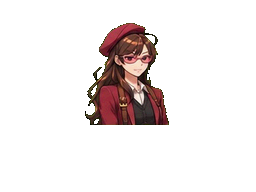
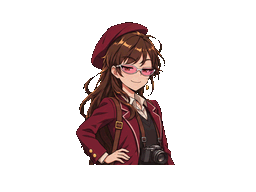
Chayo con hojas nuevas en pares exactos (8 emociones); se retiran las caras antiguas
Claude-Session: https://claude.ai/code/session_01Xb94a44mJyTYV8GKKMfxw2

Changed region(s): [[0.2812, 0.0938, 0.6875, 0.875]]

diff --git a/js/assets.js b/js/assets.js
@@ -1,5 +1,5 @@
 /* Rutas de las imágenes del juego. Para cambiar un sprite, reemplaza el PNG. */
-const ART={chayo:{angry:"assets/personajes/chayo/angry.png",angryTalk:"assets/personajes/chayo/angryTalk.png",annoyed:"assets/personajes/chayo/annoyed.png",annoyedTalk:"assets/personajes/chayo/annoyedTalk.png",base:"assets/personajes/chayo/base.png",blush:"assets/personajes/chayo/blush.png",blushTalk:"assets/personajes/chayo/blushTalk.png",camera:"assets/personajes/chayo/camera.png",cameraTalk:"assets/personajes/chayo/cameraTalk.png",cry:"assets/personajes/chayo/cry.png",cryTalk:"assets/personajes/chayo/cryTalk.png",down:"assets/personajes/chayo/down.png",downTalk:"assets/personajes/chayo/downTalk.png",embarrassed:"assets/personajes/chayo/embarrassed.png",embarrassedTalk:"assets/personajes/chayo/embarrassedTalk.png",excited:"assets/personajes/chayo/excited.png",excitedTalk:"assets/personajes/chayo/excitedTalk.png",face:"assets/personajes/chayo/face.png",facepalm:"assets/personajes/chayo/facepalm.png",facepalmTalk:"assets/personajes/chayo/facepalmTalk.png",giggle:"assets/personajes/chayo/giggle.png",giggleTalk:"assets/personajes/chayo/giggleTalk.png",glasses:"assets/personajes/chayo/glasses.png",glassesTalk:"assets/personajes/chayo/glassesTalk.png",grin:"assets/personajes/chayo/grin.png",grinTalk:"assets/personajes/chayo/grinTalk.png",happy:"assets/personajes/chayo/happy.png",happyTalk:"assets/personajes/chayo/happyTalk.png",laugh:"assets/personajes/chayo/laugh.png",laughTalk:"assets/personajes/chayo/laughTalk.png",panic:"assets/personajes/chayo/panic.png",panicTalk:"assets/personajes/chayo/panicTalk.png",photo:"assets/personajes/chayo/photo.png",photoTalk:"assets/personajes/chayo/photoTalk.png",point:"assets/personajes/chayo/point.png",pointTalk:"assets/personajes/chayo/pointTalk.png",sad:"assets/personajes/chayo/sad.png",sadTalk:"assets/personajes/chayo/sadTalk.png",serious:"assets/personajes/chayo/serious.png",seriousTalk:"assets/personajes/chayo/seriousTalk.png",shock:"assets/personajes/chayo/shock.png",shockTalk:"assets/personajes/chayo/shockTalk.png",smile:"assets/personajes/chayo/smile.png",smileTalk:"assets/personajes/chayo/smileTalk.png",smug:"assets/personajes/chayo/smug.png",smugTalk:"assets/personajes/chayo/smugTalk.png",surprise:"assets/personajes/chayo/surprise.png",surpriseTalk:"assets/personajes/chayo/surpriseTalk.png",sweat:"assets/personajes/chayo/sweat.png",sweatTalk:"assets/personajes/chayo/sweatTalk.png",talk:"assets/personajes/chayo/talk.png",think:"assets/personajes/chayo/think.png",think2:"assets/personajes/chayo/think2.png",think2Talk:"assets/personajes/chayo/think2Talk.png",thinkTalk:"assets/personajes/chayo/thinkTalk.png",wink:"assets/personajes/chayo/wink.png",winkTalk:"assets/personajes/chayo/winkTalk.png"},
+const ART={chayo:{annoyed:"assets/personajes/chayo/annoyed.png",annoyedTalk:"assets/personajes/chayo/annoyedTalk.png",base:"assets/personajes/chayo/base.png",face:"assets/personajes/chayo/face.png",happy:"assets/personajes/chayo/happy.png",happyTalk:"assets/personajes/chayo/happyTalk.png",point:"assets/personajes/chayo/point.png",pointTalk:"assets/personajes/chayo/pointTalk.png",smug:"assets/personajes/chayo/smug.png",smugTalk:"assets/personajes/chayo/smugTalk.png",surprise:"assets/personajes/chayo/surprise.png",surpriseTalk:"assets/personajes/chayo/surpriseTalk.png",talk:"assets/personajes/chayo/talk.png",think:"assets/personajes/chayo/think.png",thinkTalk:"assets/personajes/chayo/thinkTalk.png",worried:"assets/personajes/chayo/worried.png",worriedTalk:"assets/personajes/chayo/worriedTalk.png"},
 ines:{angry:"assets/personajes/ines/angry.png",angryTalk:"assets/personajes/ines/angryTalk.png",ap1:"assets/personajes/ines/ap1.png",ap10:"assets/personajes/ines/ap10.png",ap11:"assets/personajes/ines/ap11.png",ap12:"assets/personajes/ines/ap12.png",ap13:"assets/personajes/ines/ap13.png",ap14:"assets/personajes/ines/ap14.png",ap15:"assets/personajes/ines/ap15.png",ap16:"assets/personajes/ines/ap16.png",ap2:"assets/personajes/ines/ap2.png",ap3:"assets/personajes/ines/ap3.png",ap4:"assets/personajes/ines/ap4.png",ap5:"assets/personajes/ines/ap5.png",ap6:"assets/personajes/ines/ap6.png",ap7:"assets/personajes/ines/ap7.png",ap8:"assets/personajes/ines/ap8.png",ap9:"assets/personajes/ines/ap9.png",base:"assets/personajes/ines/base.png",down:"assets/personajes/ines/down.png",downTalk:"assets/personajes/ines/downTalk.png",face:"assets/personajes/ines/face.png",le1:"assets/personajes/ines/le1.png",le10:"assets/personajes/ines/le10.png",le11:"assets/personajes/ines/le11.png",le12:"assets/personajes/ines/le12.png",le13:"assets/personajes/ines/le13.png",le14:"assets/personajes/ines/le14.png",le15:"assets/personajes/ines/le15.png",le16:"assets/personajes/ines/le16.png",le2:"assets/personajes/ines/le2.png",le3:"assets/personajes/ines/le3.png",le4:"assets/personajes/ines/le4.png",le5:"assets/personajes/ines/le5.png",le6:"assets/personajes/ines/le6.png",le7:"assets/personajes/ines/le7.png",le8:"assets/personajes/ines/le8.png",le9:"assets/personajes/ines/le9.png",papel:"assets/personajes/ines/papel.png",papelTalk:"assets/personajes/ines/papelTalk.png",point:"assets/personajes/ines/point.png",pointTalk:"assets/personajes/ines/pointTalk.png",shock:"assets/personajes/ines/shock.png",shockTalk:"assets/personajes/ines/shockTalk.png",smug:"assets/personajes/ines/smug.png",smugTalk:"assets/personajes/ines/smugTalk.png",sweat:"assets/personajes/ines/sweat.png",sweatTalk:"assets/personajes/ines/sweatTalk.png",talk:"assets/personajes/ines/talk.png",think:"assets/personajes/ines/think.png",thinkTalk:"assets/personajes/ines/thinkTalk.png"},
 
 fiscal:{angry:"assets/personajes/fiscal/angry.png",angryTalk:"assets/personajes/fiscal/angryTalk.png",base:"assets/personajes/fiscal/base.png",cafe:"assets/personajes/fiscal/cafe.png",cafeTalk:"assets/personajes/fiscal/cafeTalk.png",cross:"assets/personajes/fiscal/cross.png",crossTalk:"assets/personajes/fiscal/crossTalk.png",cuff:"assets/personajes/fiscal/cuff.png",cuffTalk:"assets/personajes/fiscal/cuffTalk.png",down:"assets/personajes/fiscal/down.png",downTalk:"assets/personajes/fiscal/downTalk.png",face:"assets/personajes/fiscal/face.png",facepalm:"assets/personajes/fiscal/facepalm.png",facepalmTalk:"assets/personajes/fiscal/facepalmTalk.png",fist:"assets/personajes/fiscal/fist.png",fistTalk:"assets/personajes/fiscal/fistTalk.png",frente_angry:"assets/personajes/fiscal/frente_angry.png",frente_angryTalk:"assets/personajes/fiscal/frente_angryTalk.png",frente_base:"assets/personajes/fiscal/frente_base.png",frente_cross:"assets/personajes/fiscal/frente_cross.png",frente_crossTalk:"assets/personajes/fiscal/frente_crossTalk.png",frente_down:"assets/personajes/fiscal/frente_down.png",frente_downTalk:"assets/personajes/fiscal/frente_downTalk.png",frente_gesture:"assets/personajes/fiscal/frente_gesture.png",frente_gestureTalk:"assets/personajes/fiscal/frente_gestureTalk.png",frente_proud:"assets/personajes/fiscal/frente_proud.png",frente_proudTalk:"assets/personajes/fiscal/frente_proudTalk.png",frente_serious:"assets/personajes/fiscal/frente_serious.png",frente_seriousTalk:"assets/personajes/fiscal/frente_seriousTalk.png",frente_shock:"assets/personajes/fiscal/frente_shock.png",frente_shockTalk:"assets/personajes/fiscal/frente_shockTalk.png",frente_smile:"assets/personajes/fiscal/frente_smile.png",frente_smileTalk:"assets/personajes/fiscal/frente_smileTalk.png",frente_smug:"assets/personajes/fiscal/frente_smug.png",frente_smugTalk:"assets/personajes/fiscal/frente_smugTalk.png",frente_talk:"assets/personajes/fiscal/frente_talk.png",frente_think:"assets/personajes/fiscal/frente_think.png",frente_think2:"assets/personajes/fiscal/frente_think2.png",frente_think2Talk:"assets/personajes/fiscal/frente_think2Talk.png",frente_thinkTalk:"assets/personajes/fiscal/frente_thinkTalk.png",gesture:"assets/personajes/fiscal/gesture.png",gestureTalk:"assets/personajes/fiscal/gestureTalk.png",point:"assets/personajes/fiscal/point.png",pointTalk:"assets/personajes/fiscal/pointTalk.png",proud:"assets/personajes/fiscal/proud.png",proud2:"assets/personajes/fiscal/proud2.png",proud2Talk:"assets/personajes/fiscal/proud2Talk.png",proudTalk:"assets/personajes/fiscal/proudTalk.png",serious:"assets/personajes/fiscal/serious.png",seriousTalk:"assets/personajes/fiscal/seriousTalk.png",shock:"assets/personajes/fiscal/shock.png",shockTalk:"assets/personajes/fiscal/shockTalk.png",smile:"assets/personajes/fiscal/smile.png",smileTalk:"assets/personajes/fiscal/smileTalk.png",smug:"assets/personajes/fiscal/smug.png",smug2:"assets/personajes/fiscal/smug2.png",smug2Talk:"assets/personajes/fiscal/smug2Talk.png",smugTalk:"assets/personajes/fiscal/smugTalk.png",stop:"assets/personajes/fiscal/stop.png",stopTalk:"assets/personajes/fiscal/stopTalk.png",sweat:"assets/personajes/fiscal/sweat.png",sweatTalk:"assets/personajes/fiscal/sweatTalk.png",talk:"assets/personajes/fiscal/talk.png",think:"assets/personajes/fiscal/think.png",think2:"assets/personajes/fiscal/think2.png",think2Talk:"assets/personajes/fiscal/think2Talk.png",thinkTalk:"assets/personajes/fiscal/thinkTalk.png"},

diff --git a/js/engine.js b/js/engine.js
@@ -595,14 +595,12 @@ const AMAP={
   barbara:{normal:["base","talk"],smug:["smug","smugTalk"],smile:["smile","smileTalk"],angry:["annoyed","annoyedTalk"],disdain:["annoyed","annoyedTalk"],shock:["shock","shockTalk"],sweat:["sweat","sweatTalk"],think:["think","thinkTalk"],"pose:point":["point","pointTalk"]},
   aurelio:{normal:["base","talk"],smug:["smug","smugTalk"],shock:["shock","shockTalk"],sweat:["sweat","sweatTalk"],think:["think","thinkTalk"],smile:["smile","smileTalk"],angry:["angry","angryTalk"],confused:["confused","confusedTalk"]},
   eduardo:{normal:["base","talk"],smile:["smile","smileTalk"],think:["scratch","scratchTalk"],sweat:["sweat","sweatTalk"],write:["note","noteTalk"],shock:["shock","shockTalk"],serious:["fist","fistTalk"],angry:["fist","fistTalk"],down:["down","downTalk"]},
-  chayo:{normal:["base","talk"],serious:["serious","seriousTalk"],smile:["smile","smileTalk"],happy:["happy","happyTalk"],laugh:["laugh","laughTalk"],giggle:["giggle","giggleTalk"],eat:["giggle","giggleTalk"],think:["think","thinkTalk"],think2:["think2","think2Talk"],blush:["blush","blushTalk"],smug:["smug","smugTalk"],wink:["wink","winkTalk"],grin:["grin","grinTalk"],excited:["excited","excitedTalk"],surprise:["surprise","surpriseTalk"],shock:["shock","shockTalk"],panic:["panic","panicTalk"],sweat:["sweat","sweatTalk"],worried:["sweat","sweatTalk"],down:["down","downTalk"],sad:["sad","sadTalk"],embarrassed:["embarrassed","embarrassedTalk"],angry:["angry","angryTalk"],pout:["annoyed","annoyedTalk"],annoyed:["annoyed","annoyedTalk"],facepalm:["facepalm","facepalmTalk"],cry:["cry","cryTalk"],"pose:point":["point","pointTalk"],"pose:lentes":["glasses","glassesTalk"],"pose:camara":["camera","cameraTalk"],"pose:foto":["photo","photoTalk"]},
+  chayo:{normal:["base","talk"],serious:["base","talk"],smile:["happy","happyTalk"],happy:["happy","happyTalk"],laugh:["happy","happyTalk"],giggle:["happy","happyTalk"],eat:["happy","happyTalk"],grin:["happy","happyTalk"],excited:["happy","happyTalk"],blush:["happy","happyTalk"],think:["think","thinkTalk"],think2:["think","thinkTalk"],surprise:["surprise","surpriseTalk"],shock:["surprise","surpriseTalk"],panic:["surprise","surpriseTalk"],sweat:["worried","worriedTalk"],worried:["worried","worriedTalk"],down:["worried","worriedTalk"],sad:["worried","worriedTalk"],embarrassed:["worried","worriedTalk"],cry:["worried","worriedTalk"],smug:["smug","smugTalk"],wink:["smug","smugTalk"],annoyed:["annoyed","annoyedTalk"],pout:["annoyed","annoyedTalk"],angry:["annoyed","annoyedTalk"],facepalm:["annoyed","annoyedTalk"],"pose:point":["point","pointTalk"],"pose:lentes":["smug","smugTalk"],"pose:camara":["happy","happyTalk"],"pose:foto":["happy","happyTalk"]},
   zoila:{normal:["base","talk"],smug:["smug","smugTalk"],smile:["happy","happyTalk"],sweat:["sweat","sweatTalk"],shock:["shock","shockTalk"],think:["think","thinkTalk"],serious:["serious","seriousTalk"],angry:["indignant","indignantTalk"]},
 };
 /* Caras sin pareja de boca (solo reacción): al empezar la línea se ven un momento y luego el personaje
    sigue hablando con una cara que SÍ tiene boca cerrada/abierta. «pose:x» = la pose también se deja. */
-const REACT={ chayo:{laugh:"happy",giggle:"happy",eat:"happy",blush:"happy",wink:"happy",grin:"happy",excited:"happy",
-  shock:"surprise",panic:"surprise",sweat:"serious",worried:"sad",embarrassed:"sad",cry:"sad",facepalm:"annoyed",
-  "pose:lentes":"base","pose:camara":"happy","pose:foto":"happy"} };
+const REACT={ };   // ej.: chayo:{laugh:"happy"} si alguna vez vuelve a tener caras sin pareja
 function artFor(who,mood,pose,m,b){ const A=ART[who]; if(!A) return null; const M=AMAP[who];
   if(pose==="cafe"&&(mood==="shock"||mood==="sweat")) pose="";
   let e=(pose&&M["pose:"+pose])||M[mood]||M.normal; if(typeof e==="string") e=[e];

diff --git a/prueba-final.html b/prueba-final.html
@@ -5,7 +5,7 @@
 <meta name="viewport" content="width=device-width, initial-scale=1">
 <title>ACTA CERO — Prueba del final</title>
 <link href="https://fonts.googleapis.com/css2?family=Bebas+Neue&family=Pixelify+Sans:wght@400;700&display=swap" rel="stylesheet">
-<link rel="stylesheet" href="css/style.css?v=60">
+<link rel="stylesheet" href="css/style.css?v=61">
 </head>
 <body>
 <div id="ds">
@@ -49,15 +49,15 @@
     <div class="hint">Activa el sonido · toca la pantalla de abajo para avanzar</div>
   </div>
 </div>
-<script src="js/casos.js?v=60"></script>
-<script src="casos/caso1.js?v=60"></script>
-<script src="casos/caso2.js?v=60"></script>
-<script src="js/audio.js?v=60"></script>
-<script src="js/sprites.js?v=60"></script>
-<script src="js/assets.js?v=60"></script>
-<script src="js/engine.js?v=60"></script>
-<script src="js/investigacion.js?v=60"></script>
-<script src="js/musica.js?v=60"></script>
+<script src="js/casos.js?v=61"></script>
+<script src="casos/caso1.js?v=61"></script>
+<script src="casos/caso2.js?v=61"></script>
+<script src="js/audio.js?v=61"></script>
+<script src="js/sprites.js?v=61"></script>
+<script src="js/assets.js?v=61"></script>
+<script src="js/engine.js?v=61"></script>
+<script src="js/investigacion.js?v=61"></script>
+<script src="js/musica.js?v=61"></script>
 <script>
 /* Versión de prueba: salta directo al veredicto y la escena final del Caso 1. No toca la partida guardada. */
 saveGame=function(){ return true; }; clearSave=function(){};

diff --git a/index.html b/index.html
@@ -5,7 +5,7 @@
 <meta name="viewport" content="width=device-width, initial-scale=1">
 <title>ACTA CERO</title>
 <link href="https://fonts.googleapis.com/css2?family=Bebas+Neue&family=Pixelify+Sans:wght@400;700&display=swap" rel="stylesheet">
-<link rel="stylesheet" href="css/style.css?v=60">
+<link rel="stylesheet" href="css/style.css?v=61">
 </head>
 <body>
 <div id="ds">
@@ -48,14 +48,14 @@
     <div class="hint">Activa el sonido · toca la pantalla de abajo para avanzar</div>
   </div>
 </div>
-<script src="js/casos.js?v=60"></script>
-<script src="casos/caso1.js?v=60"></script>
-<script src="casos/caso2.js?v=60"></script>
-<script src="js/audio.js?v=60"></script>
-<script src="js/sprites.js?v=60"></script>
-<script src="js/assets.js?v=60"></script>
-<script src="js/engine.js?v=60"></script>
-<script src="js/investigacion.js?v=60"></script>
-<script src="js/musica.js?v=60"></script>
+<script src="js/casos.js?v=61"></script>
+<script src="casos/caso1.js?v=61"></script>
+<script src="casos/caso2.js?v=61"></script>
+<script src="js/audio.js?v=61"></script>
+<script src="js/sprites.js?v=61"></script>
+<script src="js/assets.js?v=61"></script>
+<script src="js/engine.js?v=61"></script>
+<script src="js/investigacion.js?v=61"></script>
+<script src="js/musica.js?v=61"></script>
 </body>
 </html>

diff --git a/herramientas/penna4.py b/herramientas/penna4.py
@@ -131,6 +131,8 @@ TABLAS={'v3':{'base':(1,2),'smug':(3,2),'proud':(5,None),'smug2':(6,2),'cross':(
    'blush':(13,None),'glasses':(15,None),'wink':(16,None),'camera':(19,None),'photo':(20,None),'excited':(24,23),'surprise':(25,26,'f'),
    'shock':(27,None),'panic':(28,None),'sweat':(29,None),'down':(30,31,'f'),'embarrassed':(32,None),'annoyed':(33,34,'f'),'angry':(35,36,'f'),
    'point':(39,37,'f'),'smug':(40,34),'sad':(41,42,'f'),'facepalm':(43,None),'cry':(44,None),'happy':(45,46,'f'),'grin':(48,None)},
+ 'chayoA':{'base':(1,2,'f'),'happy':(3,4,'f'),'surprise':(5,6,'f'),'think':(7,8,'f')},
+ 'chayoB':{'worried':(1,2,'f'),'smug':(3,4,'f'),'annoyed':(5,6,'f'),'point':(7,8,'f')},
  'v5':{'base':(1,2),'smug':(3,4),'cross':(5,6),'point':(7,8),'angry':(9,10),'shock':(11,12),'sweat':(13,14),'cafe':(15,16)}}
 P=TABLAS[os.environ.get('TABLA','v3')]
 FR={}

diff --git a/CLAUDE.md b/CLAUDE.md
@@ -97,11 +97,11 @@ De frente (`frente_*`, de `arte-original/penna-nuevo.jpg` con `herramientas/penn
 Poses: `point`, `cafe` (taza de café), `gesto`, `cruzado`, `alto` (mano en alto), `puno` (puño al pecho);
 emociones extra: `think`, `proud` (mentón arriba), `laugh` (se ríe), `down`, `facepalm`.
 
-Chayo (Rosario Velado, practicante y acompañante de Justo; **reemplazó a Coté**, que ya no existe): `arte-original/chayo.jpg` (8×6, figuras sueltas: se detectan por silueta),
-`AUTOGRID=1 FRONT=1 MOUTHDX=4 SHEET=arte-original/chayo.jpg GX=8 GY=6 TABLA=chayo HH=60 HEADY=22 python3 herramientas/penna4.py CARPETA 44 0 0`.
-Emociones: ver `AMAP.chayo` (incluye `laugh`, `giggle`, `blush`, `wink`, `panic`, `embarrassed`, `cry`); poses `point`, `lentes`
-(se arregla los lentes), `camara` y `foto` (su pasado de periodista). Voz femenina. **Chayo siempre mueve la boca**:
-sus caras sin pareja (risa, pánico, cámara...) son reacciones: se ven un instante y luego habla con una cara con pareja (`REACT` en engine.js).
+Chayo (Rosario Velado, practicante y acompañante de Justo; **reemplazó a Coté**, que ya no existe): dos hojas 4×2 en pares
+exactos, `arte-original/chayo-v2-a.png` (normal, happy, surprise, think) y `chayo-v2-b.png` (worried, smug, annoyed, point):
+`FRONT=1 MOUTHDX=4 SHEET=… GX=4 GY=2 TABLA=chayoA|chayoB HH=110 HEADY=22 python3 herramientas/penna4.py CARPETA 30 0 0`.
+Hablar = el cuadro de boca abierta completo, alineado. Todas sus emociones del guion se reparten entre esas 8 (ver `AMAP.chayo`);
+`camara`/`foto`/`lentes` hoy no tienen dibujo propio (la cámara ya cuelga en su diseño). Voz femenina.
 
 ## Pantalla de abajo (HUD)
 Diseño del dueño en `assets/hud/` (originales en `arte-original/hud/`): `panel.jpg` (fondo 4:3 armado del panel), `botones.png`
